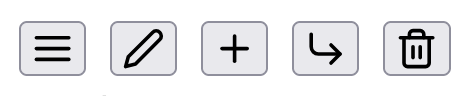
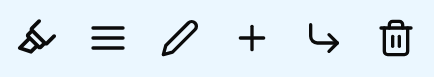
updated readme

Changed region(s): [[0.2097, 0.2051, 0.7788, 0.7949], [0.8088, 0.2051, 0.9585, 0.7949], [0.03, 0.2051, 0.1797, 0.7949]]

diff --git a/README.md b/README.md
@@ -20,6 +20,8 @@ Clicking a task toggles its status between **completed** (~~strikethrough~~) and
 
 Hovering over a task summons the **Action Bar**, a set of buttons for performing the following actions:
 
+* **Highlight**: highlight the current task
+
 * **Drag and Drop**: move the current task, including any child tasks
 
 * **Edit**: edit the current task